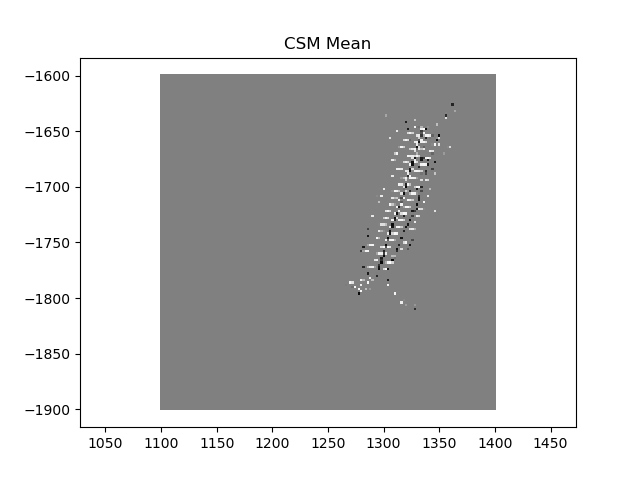
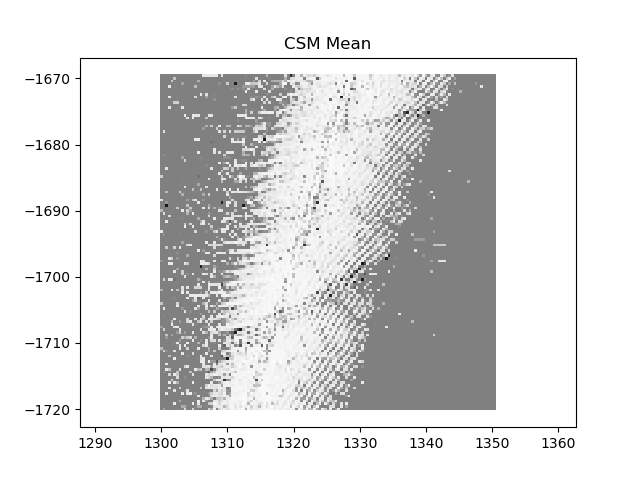
plot small range

diff --git a/velo_data.py b/velo_data.py
@@ -3,11 +3,12 @@ import numpy as np
 import os
 import pickle
 import matplotlib.pyplot as plt
-
+from mpl_toolkits.mplot3d import Axes3D
 
 config = vd.Config(model='HDL-32E', gps_time=True)
 bagfile = '/home/coned/data/Sample-Data.bag'
-lidar_topics = ['/lidar_blue_scan', '/lidar_green_scan', '/lidar_red_scan', '/lidar_yellow_scan']
+# lidar_topics = ['/lidar_blue_scan', '/lidar_green_scan', '/lidar_red_scan', '/lidar_yellow_scan']
+lidar_topics = ['/lidar_red_scan']
 
 cloud_arrays = {}
 for stamp, points, topic in vd.read_bag(bagfile, config, lidar_topics):
@@ -54,6 +55,23 @@ for stamp, points, topic in vd.read_bag(bagfile, config, lidar_topics):
 
     # # ax.set_xlim([-1, 1])
     # # ax.set_ylim([-1, 1])
+
+    # x = points[:, 0]
+    # y = points[:, 1]
+    # z = points[:, 2]
+    # intensity = points[:, 3]
+
+    # n_points = 2000
+    # idx = np.random.choice(len(x), size=n_points, replace=False)
+
+    # fig = plt.figure()
+    # plt.title = topic
+    # ax = fig.add_subplot(111, projection="3d")
+    # scatter = ax.scatter(x[idx], y[idx], z[idx], c=intensity[idx], cmap='viridis')
+    # ax.set_xlabel('X Label')
+    # ax.set_ylabel('Y Label')
+    # ax.set_zlabel('Z Label')
+
 
     # # # show the plot
     # plt.show()

diff --git a/ogm_continuous_CSM.py b/ogm_continuous_CSM.py
@@ -14,15 +14,17 @@ class ogm_continuous_CSM:
 
     def __init__(self):
         # map dimensions
-        self.range_x = [1100, 1400]
-        self.range_y = [-1900, -1600]
+        # self.range_x = [1250, 1350]
+        # self.range_y = [-1850, -1650]
+        self.range_x = [1300, 1350]
+        self.range_y = [-1720, -1670]
 
         # senesor parameters
         self.z_max = 200     # max range in meters
         self.n_beams = 133  # number of beams, we set it to 133 because not all measurements in the dataset contains 180 beams 
 
         # grid map parameters
-        self.grid_size = 2  # adjust this for task 2.B
+        self.grid_size = 0.4  # adjust this for task 2.B
         self.nn = 16          # number of nearest neighbor search
 
         # map structure
